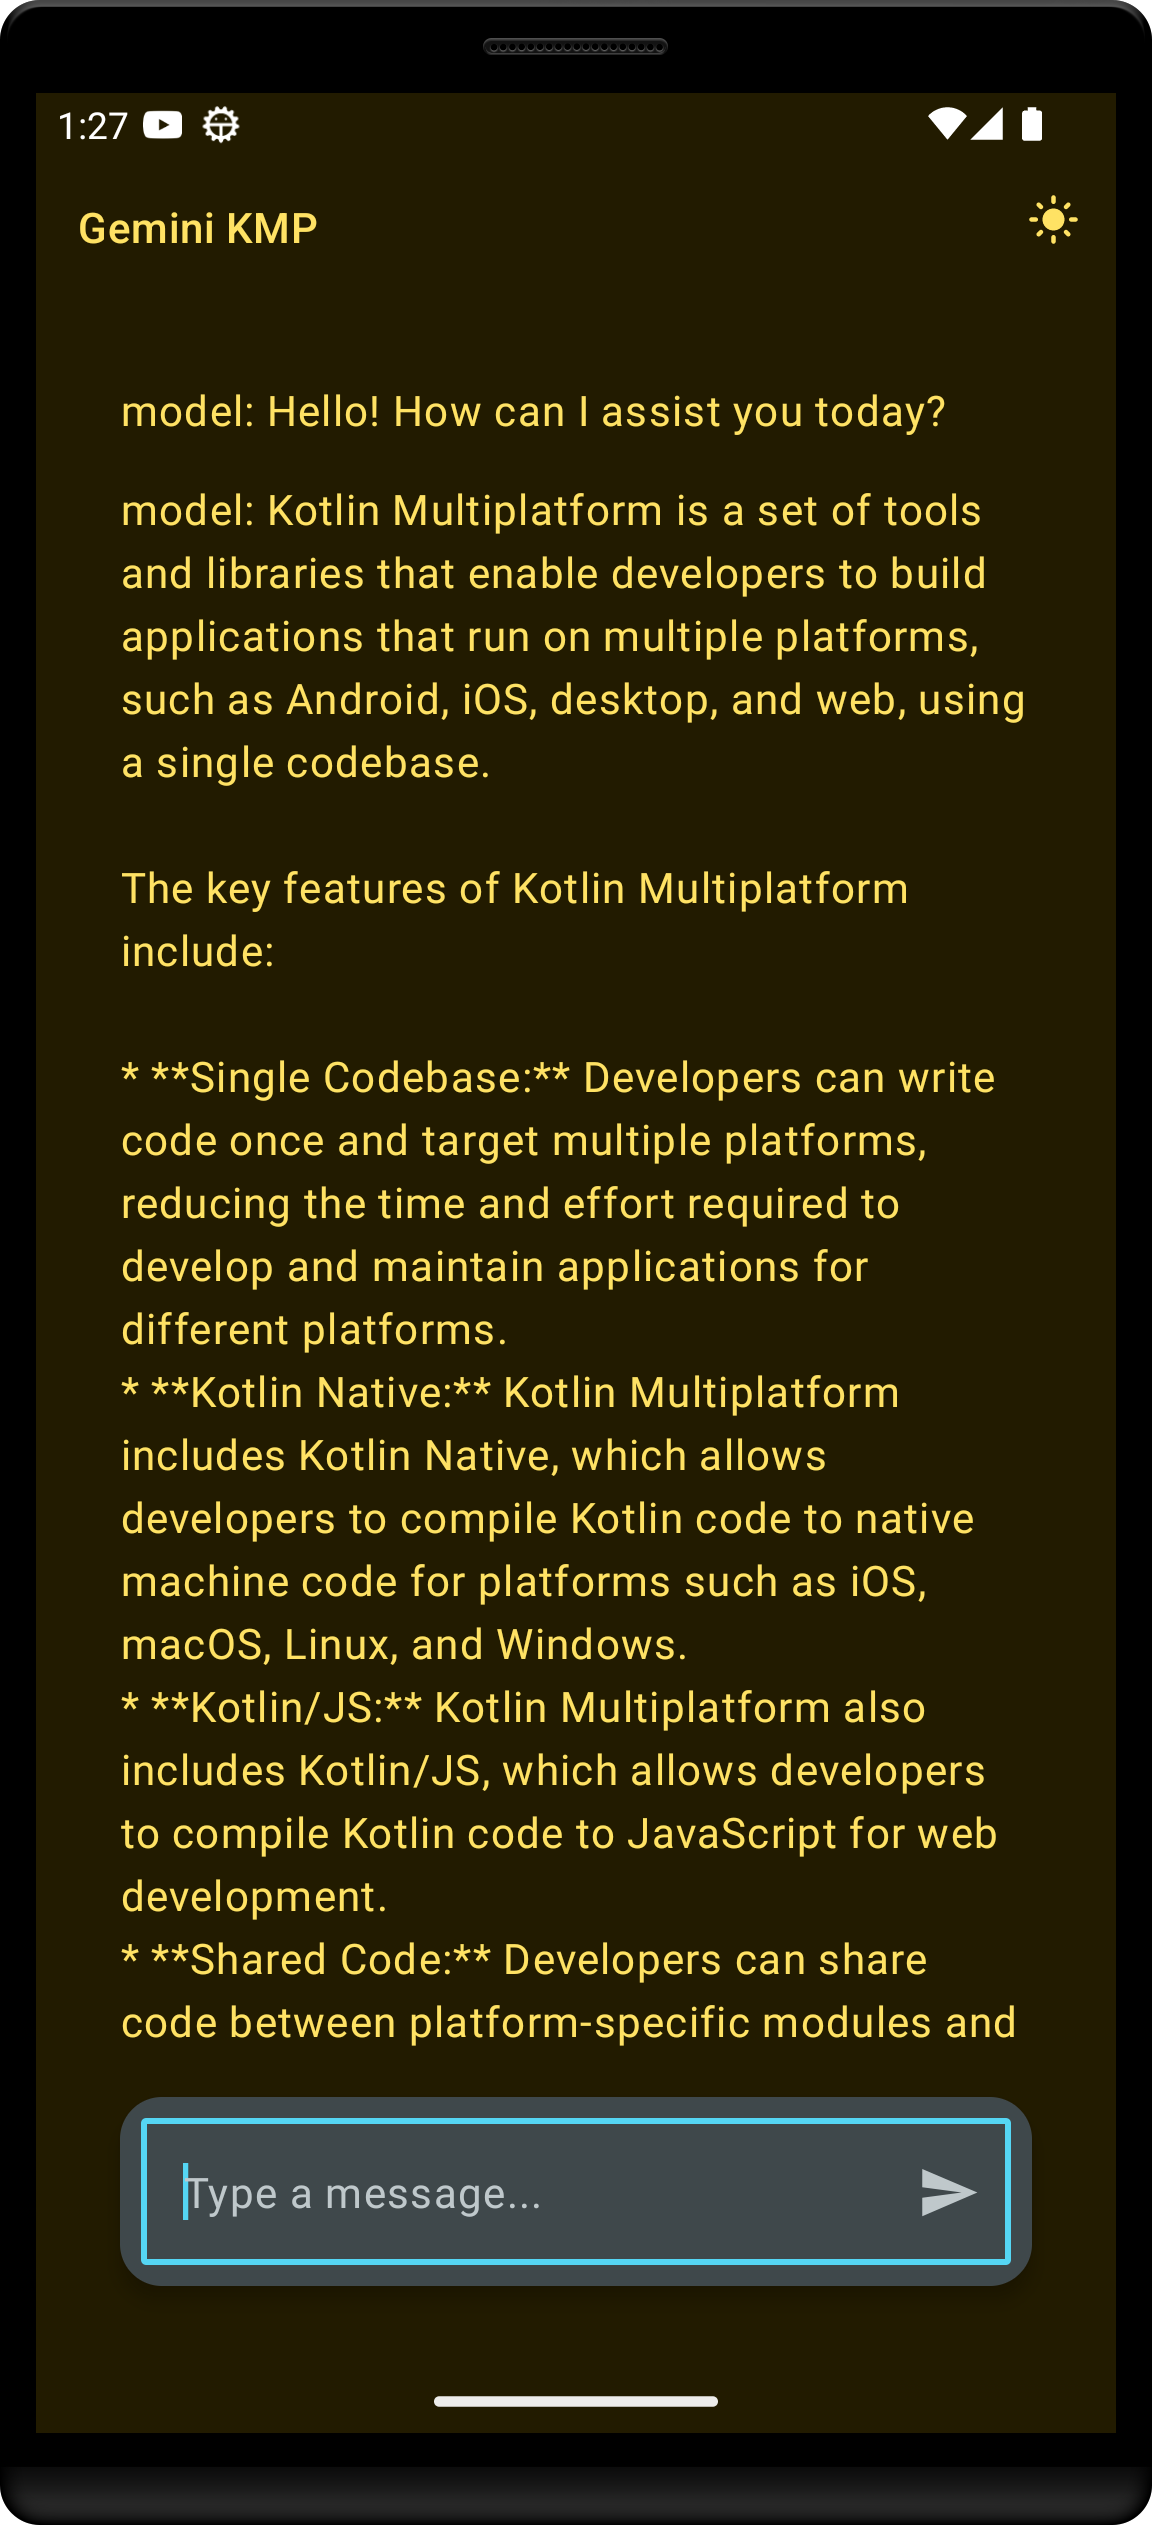
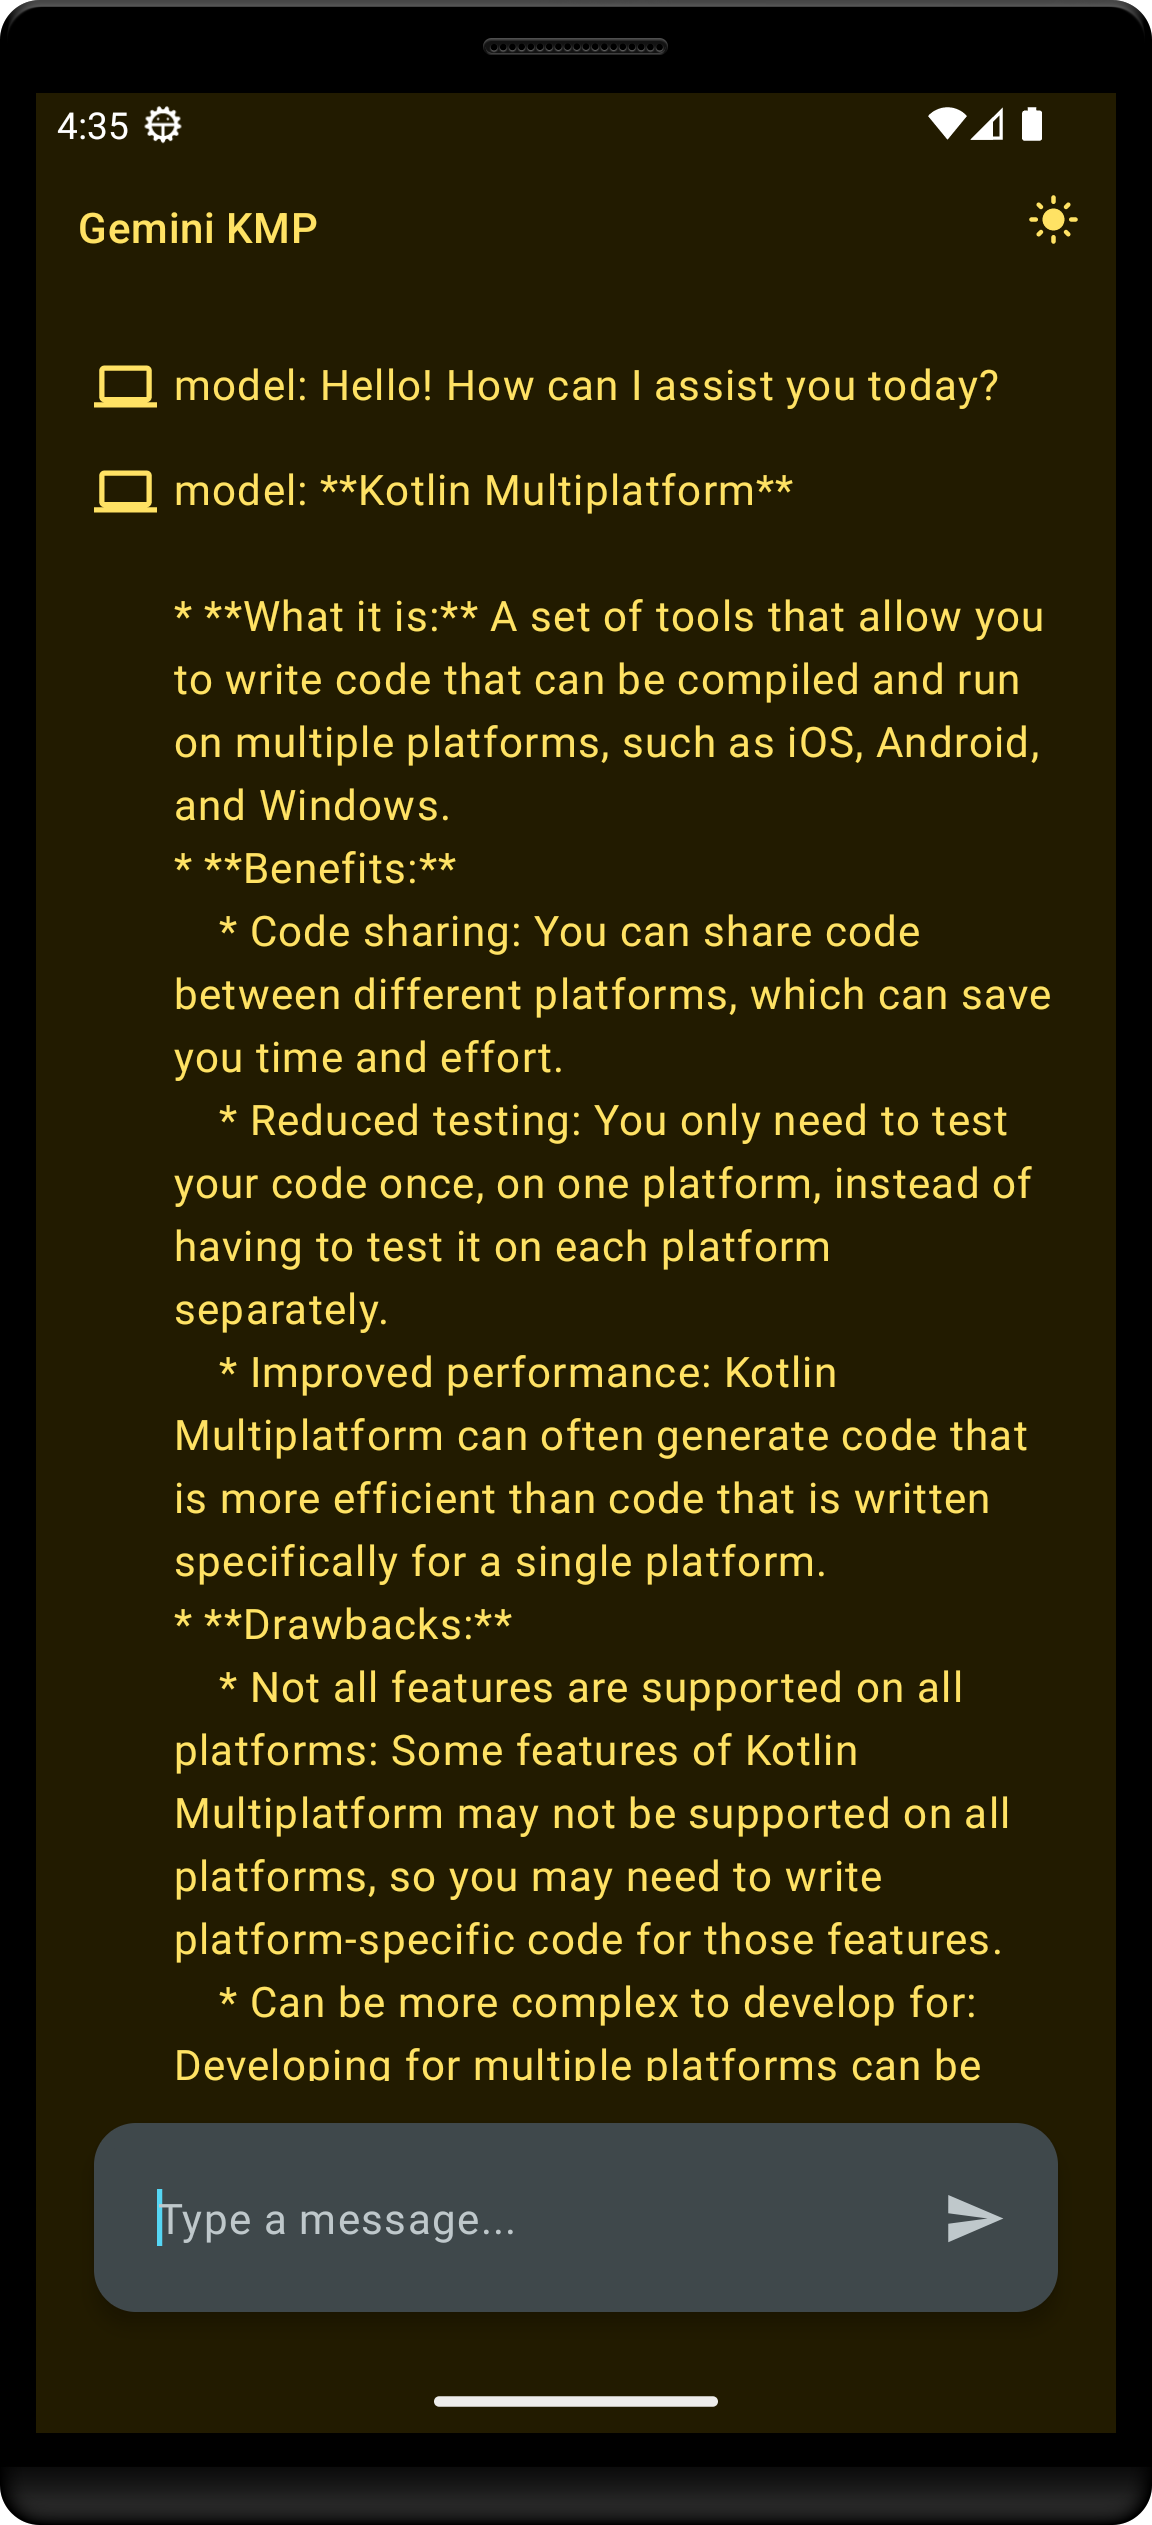
-Ehancement Added (#2)

Changed region(s): [[0.0625, 0.1236, 0.9375, 0.9267], [0.0938, 0.0309, 0.2188, 0.0618], [0.8438, 0.3707, 0.9062, 0.4016]]

diff --git a/composeApp/src/commonMain/kotlin/org/gemini/app/ui/screen/HomeScreen.kt b/composeApp/src/commonMain/kotlin/org/gemini/app/ui/screen/HomeScreen.kt
@@ -5,22 +5,28 @@ import androidx.compose.foundation.layout.Arrangement
 import androidx.compose.foundation.layout.Column
 import androidx.compose.foundation.layout.PaddingValues
 import androidx.compose.foundation.layout.Row
+import androidx.compose.foundation.layout.Spacer
 import androidx.compose.foundation.layout.fillMaxSize
 import androidx.compose.foundation.layout.fillMaxWidth
 import androidx.compose.foundation.layout.padding
+import androidx.compose.foundation.layout.width
 import androidx.compose.foundation.lazy.LazyColumn
 import androidx.compose.foundation.lazy.items
 import androidx.compose.foundation.lazy.rememberLazyListState
 import androidx.compose.foundation.shape.RoundedCornerShape
 import androidx.compose.foundation.text.selection.SelectionContainer
 import androidx.compose.material.icons.Icons
+import androidx.compose.material.icons.filled.Computer
+import androidx.compose.material.icons.filled.Person
 import androidx.compose.material.icons.filled.Send
 import androidx.compose.material3.Card
 import androidx.compose.material3.CardDefaults
+import androidx.compose.material3.ExperimentalMaterial3Api
 import androidx.compose.material3.Icon
 import androidx.compose.material3.IconButton
-import androidx.compose.material3.OutlinedTextField
 import androidx.compose.material3.Text
+import androidx.compose.material3.TextField
+import androidx.compose.material3.TextFieldDefaults
 import androidx.compose.runtime.Composable
 import androidx.compose.runtime.LaunchedEffect
 import androidx.compose.runtime.collectAsState
@@ -31,6 +37,7 @@ import androidx.compose.runtime.rememberCoroutineScope
 import androidx.compose.runtime.setValue
 import androidx.compose.ui.Alignment
 import androidx.compose.ui.Modifier
+import androidx.compose.ui.graphics.Color
 import androidx.compose.ui.unit.dp
 import cafe.adriel.voyager.core.screen.Screen
 import kotlinx.coroutines.launch
@@ -48,7 +55,7 @@ class HomeScreen : Screen {
         val coroutineScope = rememberCoroutineScope()
         var content by remember { mutableStateOf("hey") }
         var search by remember { mutableStateOf("") }
-        var chatMessages by remember { mutableStateOf(listOf<String>()) }
+        var chatMessages by remember { mutableStateOf(listOf<Pair<String, String>>()) }
         var isEnable by remember { mutableStateOf(false) }
 
         LaunchedEffect(Unit) {
@@ -73,7 +80,7 @@ class HomeScreen : Screen {
                         data.candidates?.firstOrNull()?.content?.parts?.firstOrNull()?.text.orEmpty()
 
                     if (role.isNotEmpty() && text.isNotEmpty()) {
-                        chatMessages = chatMessages + "$role: $text"
+                        chatMessages = chatMessages + Pair(role, "$role: $text")
                     }
                 }
                 println("API Response $data")
@@ -89,7 +96,7 @@ class HomeScreen : Screen {
         Column(
             modifier = Modifier
                 .fillMaxSize()
-                .padding(16.dp),
+                .padding(6.dp),
             horizontalAlignment = Alignment.CenterHorizontally,
             verticalArrangement = Arrangement.Bottom
         ) {
@@ -101,9 +108,15 @@ class HomeScreen : Screen {
                 contentPadding = PaddingValues(8.dp),
                 state = rememberLazyListState()
             ) {
+                // Inside LazyColumn
                 items(chatMessages) { chatMessage ->
-                    ChatMessage(message = chatMessage)
+                    ChatMessage(
+                        message = chatMessage.second,
+                        role = chatMessage.first,
+                        userRole = chatMessage.second
+                    )
                 }
+
             }
 
             // Input field and send button
@@ -126,7 +139,7 @@ class HomeScreen : Screen {
                             modifier = Modifier.fillMaxWidth(),
                             verticalAlignment = Alignment.CenterVertically
                         ) {
-                            OutlinedTextField(
+                            TextField(
                                 value = search,
                                 onValueChange = {
                                     search = it
@@ -151,7 +164,11 @@ class HomeScreen : Screen {
                                             contentDescription = null
                                         )
                                     }
-                                }
+                                },
+                                colors = TextFieldDefaults.colors(
+                                    unfocusedIndicatorColor = Color.Unspecified,
+                                    focusedIndicatorColor = Color.Unspecified
+                                )
                             )
                         }
                     }
@@ -162,15 +179,42 @@ class HomeScreen : Screen {
 }
 
 @Composable
-fun ChatMessage(message: String) {
+fun ChatMessage(message: String, role: String, userRole: String) {
     Row(
         modifier = Modifier
             .fillMaxWidth()
             .padding(8.dp),
-        horizontalArrangement = Arrangement.Start
+        verticalAlignment = Alignment.CenterVertically
     ) {
         SelectionContainer {
-            Text(message)
+            // Display the icon based on the role
+            val icon = when {
+                role.equals("model", ignoreCase = true) -> Icons.Default.Computer
+                role.equals(
+                    userRole,
+                    ignoreCase = true
+                ) -> Icons.Default.Person // Display user's role
+                else -> Icons.Default.Person // Default to a person icon for other roles
+            }
+
+            // Display the role icon
+            Icon(
+                imageVector = icon,
+                contentDescription = null,
+                modifier = Modifier.padding(end = 8.dp)
+            )
+
+            // Use Spacer to create space between icon and text
+            Spacer(modifier = Modifier.width(4.dp))
+
+            // Display the message text
+            if (role.equals(userRole, ignoreCase = true)) {
+                // Different style for user's message
+                Text(message, modifier = Modifier.padding(start = 30.dp))
+            } else {
+                // Style for other messages
+                Text(message, modifier = Modifier.padding(start = 30.dp))
+            }
         }
     }
 }

diff --git a/composeApp/src/commonMain/kotlin/org/gemini/app/utils/Constant.kt b/composeApp/src/commonMain/kotlin/org/gemini/app/utils/Constant.kt
@@ -2,6 +2,6 @@ package org.gemini.app.utils
 
 object Constant {
     const val BASE_URL = "https://generativelanguage.googleapis.com/"
-    const val API_KEY = "AIzaSyDc3ge54dAg5DG92M4aW-iM6B0rVfuGR6A"
+    const val API_KEY = "AIzaSyAGIbCm970chMEFc5fEiOLp0pxFvlrcN8E"
     const val TIMEOUT  = 300000L
 }
